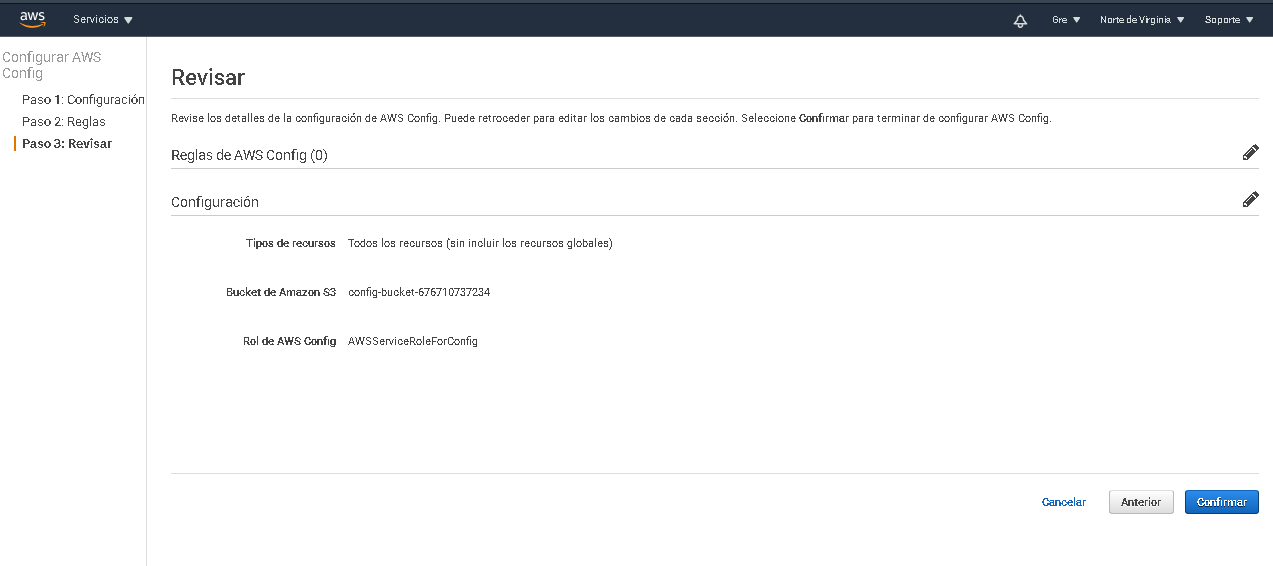
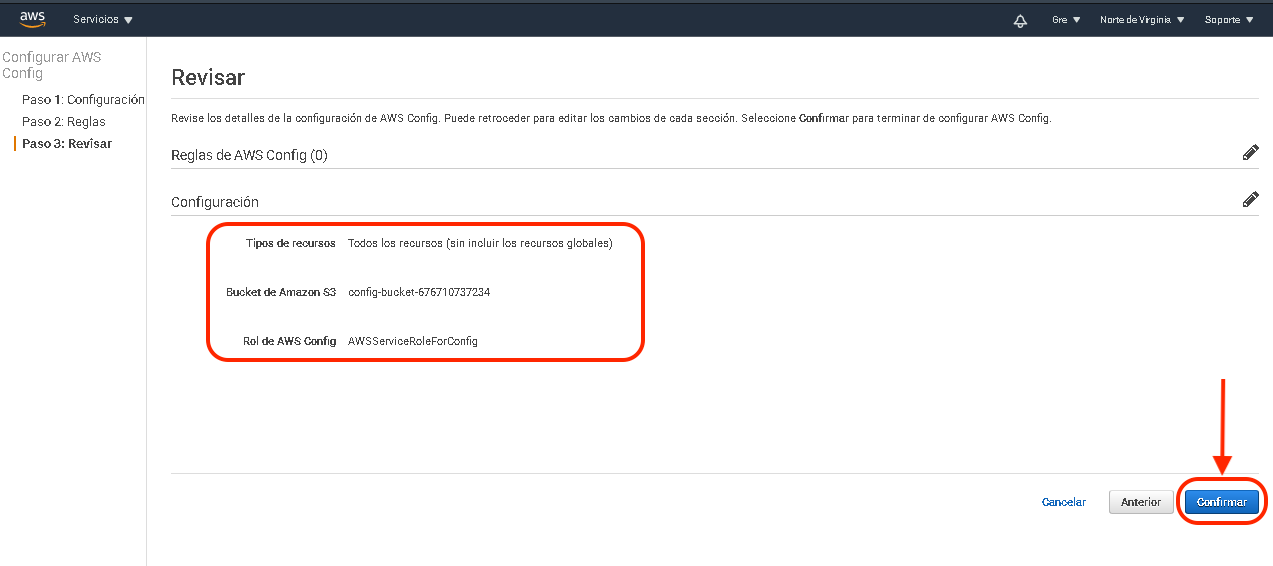
[update] description of steps

Changed region(s): [[0.1532, 0.3905, 0.5208, 0.6608], [0.9191, 0.6908, 1.0, 0.9311]]

diff --git a/Sesión 08/Postwork.md b/Sesión 08/Postwork.md
@@ -1,29 +1,44 @@
 # Postwork: AWS Config
 
 ## 1. Objetivo 
-- Conocer todos los los servicios que están siendo ejecutados o consumidos en la cuenta de AWS.
+- Conocer todos los servicios que están siendo ejecutados o consumidos en la cuenta de AWS.
 
 ## 2. Requisitos 
 - Acceso a AWS Console
+- Usuario IAM con permisos para ejecutar AWS Config
 
-## 3. Desarrollo 
+## 3. Desarrollo
 
-![ej1-config-access-menu-01.png](img/ej1-config-access-menu-01.png)
+1. Comencemos buscando el servicio de `AWS Config`, con cualquiera de estas opciones:
+```
+i) el buscador de servicios
+ii) seleccionándolo desde Services / Management & Governance / Config
+```
+<img src="img/ej1-config-access-menu-01.png">
 
+2. Debemos inicializar el servicio dando click en `get started`
 
-![ej1-config-click-introduction-01.png](img/ej1-config-click-introduction-01.png)
+<img src="img/ej1-config-click-introduction-01.png">
 
-![ej1-config-select-bucket-services-and-roles-01.png](img/ej1-config-select-bucket-services-and-roles-01.png)
+3. Estando en la pantalla de configuración (Paso 1: Configuración), dejaremos los valores que vienen preseleccionados por defecto
+    - Registrar todos los recursos admitidos en esta región
+    - Crear un bucket
+    - Crear un rol vinculado al servicio de AWS Config
 
-Por el momento daremos click en omitir, no se hará una auditoría, solo interesa tener el inventario con todos los servicios usados por AWS.
-![ej1-config-skip-check-rules-01.png](img/ej1-config-skip-check-rules-01.png)
+<img src="img/ej1-config-select-bucket-services-and-roles-01.png">
 
+4. En la pantalla de reglas (Paso 2), daremos click en `omitir` ya que no se hará una auditoría, solo nos interesa tener el inventario de los servicios usados en la cuenta.
 
-![ej1-config-review-services-01.png](img/ej1-config-review-services-01.png)
+<img src="img/ej1-config-skip-check-rules-01.png">
 
+5. Revisemos la configuración
 
-Comienza el escaneo de los recursos usados.
-![ej1-config-building-inventory-01.png](img/ej1-config-building-inventory-01.png)
+<img src="img/ej1-config-review-services-01.png">
 
+6. Comienza el escaneo de los recursos usados.
 
-![ej1-config-principal-dashboard-with-resources-01.png](img/ej1-config-principal-dashboard-with-resources-01.png)
+<img src="img/ej1-config-building-inventory-01.png">
+
+7. Se visualiza el invetario de los recursos mostrando una tabla con el tipo y la cantidad encontrada.
+
+<img src="img/ej1-config-principal-dashboard-with-resources-01.png">
